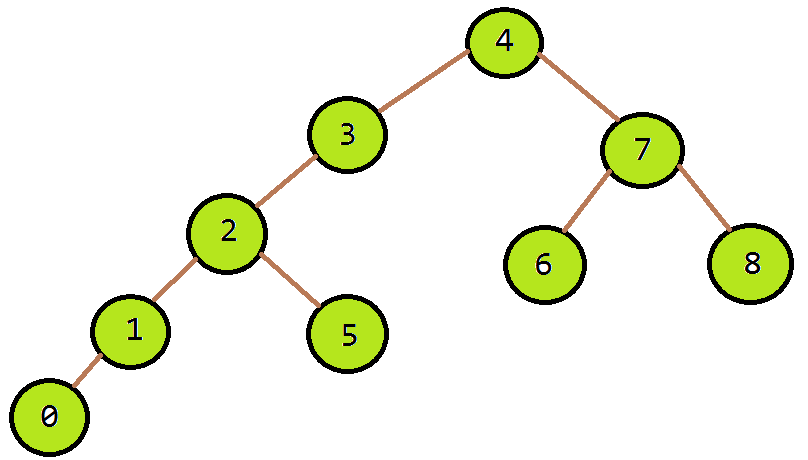
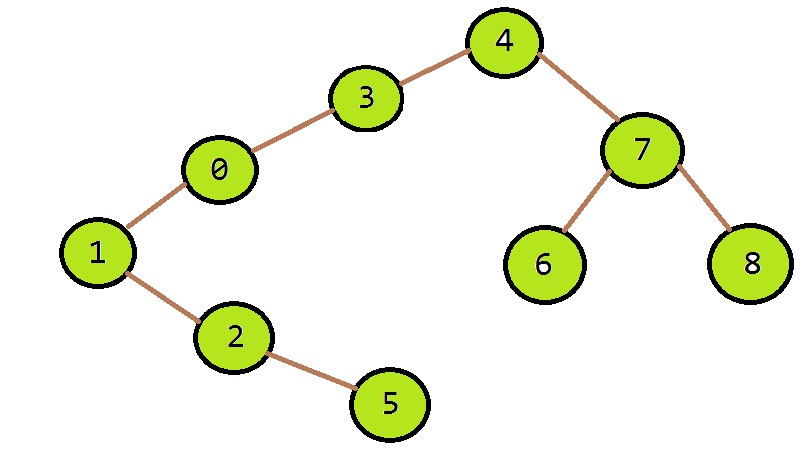
Se agrega el algoritmo de DFS: Búsqueda en Profundidad, funcionando perfectamente

Changed region(s): [[0.0, 0.4565, 0.5569, 1.0], [0.1856, 0.2739, 0.3713, 0.6087], [0.3403, 0.1217, 0.5879, 0.3957]]

diff --git a/src/myPackage/DFS.java b/src/myPackage/DFS.java
@@ -1,0 +1,145 @@
+package myPackage;
+
+import java.io.BufferedWriter;
+import java.io.FileWriter;
+import java.io.IOException;
+import java.text.NumberFormat;
+import java.util.ArrayList;
+import java.util.Stack;
+
+public class DFS {
+
+	private GrafoNDNP grafo;
+	private int cantNodos;
+	private int cantAristas;
+
+	private int nodoInicial;
+	private ArrayList<Arista> arbol;
+	private boolean[] nodoTerminado;
+	
+	public GrafoNDNP getGrafo() {
+		return grafo;
+	}
+
+	public int getCantNodos() {
+		return cantNodos;
+	}
+
+	public int getCantAristas() {
+		return cantAristas;
+	}
+
+	public int getNodoInicial() {
+		return nodoInicial;
+	}
+
+	public DFS(GrafoNDNP grafo, int nodoInicial) {
+		this.grafo = grafo;
+		this.cantNodos = grafo.getCantNodos();
+		this.cantAristas = grafo.getCantAristas();
+
+		this.nodoInicial = nodoInicial;
+		this.arbol = new ArrayList<Arista>();
+		this.nodoTerminado = new boolean[this.cantNodos];
+	}
+
+	public void ejecutar() throws IOException {
+		// pila que almacena los nodos visitados
+		Stack<Integer> pila = new Stack<Integer>();
+		// apilo el nodo inicial
+		pila.push(this.nodoInicial);
+		
+		int nodo, indice;
+		boolean adyacente = false;
+		
+		// mientras la pila no está vacía
+		while(!pila.isEmpty()) {
+			// pispeo el nodo de la cima de la pila
+			nodo = pila.peek();
+			
+			// genero todos los números de nodo
+			for (int i = 0; i < this.cantNodos; i++) {
+				// si el nodo generado no es el nodo actual y no fue terminado
+				if (nodo != i && !this.nodoTerminado[i]) {
+					// genero el índice para la matriz simétrica
+					if (nodo < i) {
+						indice = this.grafo.getGrafo().getIndice(nodo, i);
+					} else {
+						indice = this.grafo.getGrafo().getIndice(i, nodo);
+					}
+					
+					// si existe una arista que una estos nodos
+					if (this.grafo.getGrafo().hayArista(indice)) {
+						// agrego la arista al árbol
+						this.arbol.add(new Arista(nodo, i));
+						// marco el nodo actual como terminado
+						this.nodoTerminado[nodo] = true;
+						// apilo el otro nodo de la arista para seguir recorriendo a partir de él
+						pila.push(i);
+						// indico que se encontró un nodo adyacente
+						adyacente = true;
+						// rompo el ciclo para seguir recorriendo a partir del nuevo nodo apilado
+						break;
+					}
+				}
+			}
+			
+			// si no se encontró algún nodo adyacente
+			if (!adyacente) {
+				// desapilo el nodo de la cima de la pila y lo marco como terminado
+				nodo = pila.pop();
+				this.nodoTerminado[nodo] = true;
+			} else {
+				// reestablezco el valor de la bandera
+				adyacente = false;
+			}
+		}
+		
+		// escribo la solucion en consola
+		this.escribirSolucionEnConsola();
+
+		// escribo la solucion completa en un archivo
+		this.escribirSolucionEnArchivo("DFS" + "_" + this.cantNodos + "_"
+				+ String.format("%.2f", this.getGrafo().getPtajeAdyacencia()) + ".out");
+	}
+
+	public void escribirSolucionEnConsola() {
+		System.out.println("DFS: Búsqueda en Profundidad:");
+		System.out.println("Cantidad de Ramas del Árbol: " + this.arbol.size());
+		System.out.println("Nodo Inicial del Recorrido (Raíz del Árbol): " + this.nodoInicial);
+		System.out.println("Lista de Ramas:");
+		for (Arista rama : arbol) {
+			System.out.println(rama.getNodo1() + " " + rama.getNodo2());
+		}
+	}
+
+	public void escribirSolucionEnArchivo(String path) throws IOException {
+		FileWriter file = new FileWriter(path);
+		BufferedWriter buffer = new BufferedWriter(file);
+
+		buffer.write(String.valueOf(this.cantNodos));
+		buffer.write(" ");
+		buffer.write(String.valueOf(this.cantAristas));
+		buffer.write(" ");
+		buffer.write(String.valueOf(NumberFormat.getInstance().format(this.getGrafo().getPtajeAdyacencia())));
+		buffer.write(" ");
+		buffer.write(String.valueOf(this.getGrafo().getGradoMax()));
+		buffer.write(" ");
+		buffer.write(String.valueOf(this.getGrafo().getGradoMin()));
+		buffer.newLine();
+
+		buffer.write(String.valueOf(this.arbol.size()));
+		buffer.write(" ");
+		buffer.write(String.valueOf(this.nodoInicial));
+		buffer.newLine();
+
+		for (Arista rama : arbol) {
+			buffer.write(String.valueOf(rama.getNodo1()));
+			buffer.write(" ");
+			buffer.write(String.valueOf(rama.getNodo2()));
+			buffer.newLine();
+		}
+
+		buffer.close();
+	}
+}

diff --git a/src/myPackage/Main.java b/src/myPackage/Main.java
@@ -80,5 +80,9 @@ public class Main {
 		Warshall warshall = new Warshall(digrafo);
 		warshall.ejecutar();
 		*/
+		
+		GrafoNDNP grafo = new GrafoNDNP("grafo.in");
+		DFS dfs = new DFS(grafo, 4);
+		dfs.ejecutar();
 	}
 }
